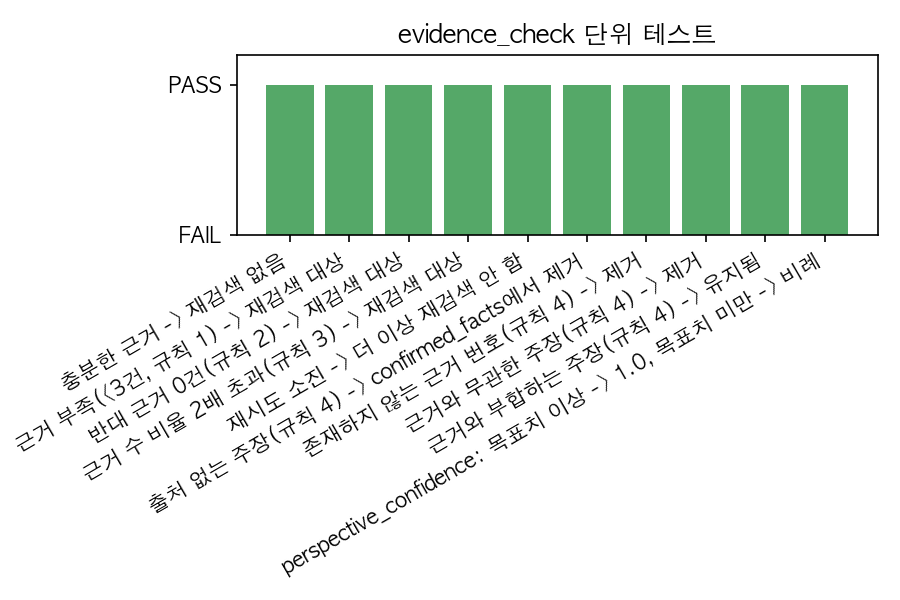
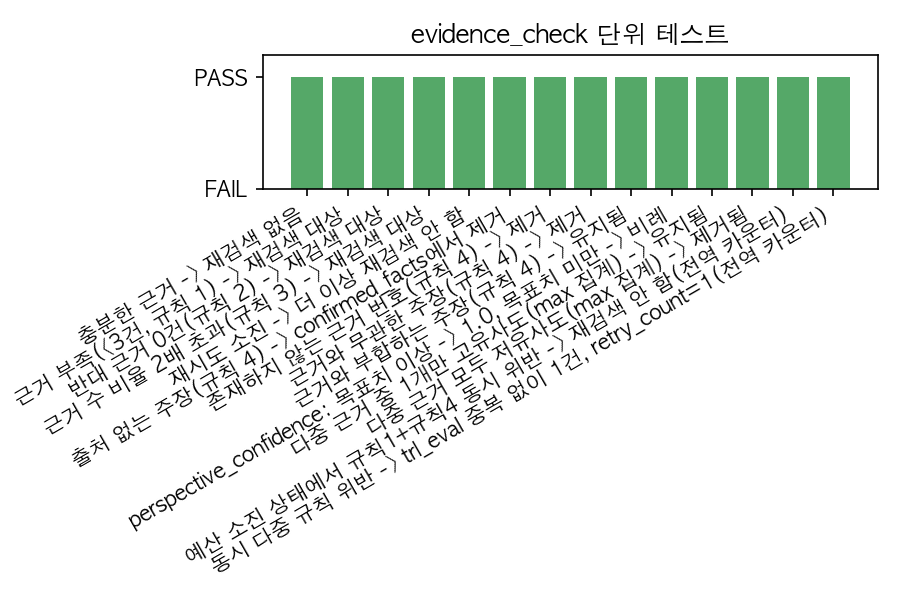
test: evidence_check 유사도 집계(max)·재검색 전역 카운터 검증 테스트 추가
기존 로직을 확인한 결과 둘 다 이미 의도대로 구현돼 있어 agent.py는 수정하지
않음:
- Claim-Evidence 유사도는 quote를 concat하지 않고 개별 비교 후 max로 집계됨
- retry_count는 규칙별이 아니라 evidence_check 호출 전체에 걸친 전역 카운터임

검증용 유닛테스트 4개 추가(11~14): 다중 근거 중 일부만 고유사도인 경우
유지/전부 저유사도인 경우 제거, 예산 소진 시 규칙1+4 동시 위반해도 재검색 안
함, 예산이 남은 상태에서 다중 규칙이 동시에 걸려도 trl_eval 중복 없이 1건·
retry_count 1로만 증가. 14/14 통과.

diff --git a/scripts/evidence_check/test_runner.py b/scripts/evidence_check/test_runner.py
@@ -5,6 +5,10 @@
 계산을 검증함. bge-m3 로컬 임베딩만 쓰고 API 키는 필요 없지만, 최초 1회 모델
 다운로드(로컬 캐시)가 필요함.
 
+테스트 11~12는 evidence_ids가 여러 개인 Claim의 유사도 집계 방식(개별 quote와
+비교한 값 중 max)을 검증함. 테스트 13~14는 재검색 카운터(retry_count)가
+규칙별이 아니라 evidence_check 호출 전체에 걸친 전역 값임을 검증함.
+
 실행: python -m scripts.evidence_check.test_runner
 """
 
@@ -138,6 +142,87 @@ def run_checks() -> list[UnitCheck]:
         "perspective_confidence: 목표치 이상 -> 1.0, 목표치 미만 -> 비례",
         conf["A"] == 1.0 and conf["B"] == 0.4,
         f"A={conf['A']}, B={conf['B']}",
+    ))
+
+    # --- 유사도 집계 방식(max) 검증: evidence_ids가 2개 이상인 Claim ---
+    irrelevant_a = Evidence(
+        id=2, tech="A", perspective="trl", stance="지지", source_type="논문",
+        source="s", quote="오늘 점심 메뉴는 김치찌개였다.",
+    )
+    irrelevant_b = Evidence(
+        id=3, tech="A", perspective="trl", stance="지지", source_type="논문",
+        source="s", quote="제주도 여행 첫날에는 성산일출봉에 갔다.",
+    )
+
+    # 11. 인용 근거 2개 중 하나만 유사도 높음 -> max 집계라 통과(유지)해야 함
+    view = ViewResult(by_tech={"A": TechViewResult(
+        confirmed_facts=[Claim(
+            statement="TurboQuant는 3.5비트에서 품질 저하가 없다고 보고됨",
+            evidence_ids=[1, 2],  # 1=grounded_evidence(관련 높음), 2=무관
+        )],
+    )})
+    result = agent.run({
+        "techs": TECHS, "evidence": [grounded_evidence, irrelevant_a],
+        "retry_count": 0, "trl_result": view,
+    })
+    checks.append(UnitCheck(
+        "다중 근거 중 1개만 고유사도(max 집계) -> 유지됨",
+        len(result["trl_result"].by_tech["A"].confirmed_facts) == 1,
+    ))
+
+    # 12. 인용 근거 2개 다 유사도 낮음 -> 제거돼야 함
+    view = ViewResult(by_tech={"A": TechViewResult(
+        confirmed_facts=[Claim(
+            statement="TurboQuant는 3.5비트에서 품질 저하가 없다고 보고됨",
+            evidence_ids=[2, 3],  # 둘 다 무관
+        )],
+    )})
+    result = agent.run({
+        "techs": TECHS, "evidence": [irrelevant_a, irrelevant_b],
+        "retry_count": 0, "trl_result": view,
+    })
+    checks.append(UnitCheck(
+        "다중 근거 모두 저유사도(max 집계) -> 제거됨",
+        result["trl_result"].by_tech["A"].confirmed_facts == [],
+    ))
+
+    # --- 재검색 카운터가 규칙별이 아니라 evidence_check 호출 전역임을 검증 ---
+
+    # 13. 예산 소진(retry_count=1) 상태에서 규칙1과 규칙4가 동시에 걸려도
+    #     재검색 대상에 추가되지 않음 -> 규칙4가 별도 예산을 갖지 않음(전역 공유) 증명
+    evidence = _evidence("A", "trl", "지지", 1, 1)  # 규칙1 위반(<3건)
+    view = ViewResult(by_tech={"A": TechViewResult(
+        confirmed_facts=[Claim(statement="근거 없이 쓴 주장", evidence_ids=[])],  # 규칙4 위반
+    )})
+    result = agent.run({
+        "techs": TECHS, "evidence": evidence, "retry_count": 1, "trl_result": view,
+    })
+    checks.append(UnitCheck(
+        "예산 소진 상태에서 규칙1+규칙4 동시 위반 -> 재검색 안 함(전역 카운터)",
+        result["retry_targets"] == [] and result["retry_count"] == 1,
+    ))
+
+    # 14. 예산이 남은 상태(retry_count=0)에서 규칙1(A)과 규칙4(A)가 동시에 걸려도
+    #     같은 관점(trl_eval)은 중복 없이 1건만 추가되고, retry_count는 1로만 증가함
+    grounded_b = Evidence(
+        id=200, tech="B", perspective="trl", stance="지지", source_type="논문",
+        source="s", quote="B tech has abundant support evidence.",
+    )
+    evidence = (
+        _evidence("A", "trl", "지지", 1, 1)  # 규칙1 위반(A: <3건)
+        + [grounded_b] + _evidence("B", "trl", "지지", 2, 201) + _evidence("B", "trl", "반대", 1, 210)
+    )
+    view = ViewResult(by_tech={
+        "A": TechViewResult(confirmed_facts=[Claim(statement="근거 없이 쓴 주장", evidence_ids=[])]),  # 규칙4 위반
+        "B": TechViewResult(confirmed_facts=[Claim(
+            statement="B tech has abundant support evidence.", evidence_ids=[200],
+        )]),  # 그라운딩 통과
+    })
+    result = agent.run({"techs": TECHS, "evidence": evidence, "retry_count": 0, "trl_result": view})
+    checks.append(UnitCheck(
+        "동시 다중 규칙 위반 -> trl_eval 중복 없이 1건, retry_count=1(전역 카운터)",
+        result["retry_targets"].count("trl_eval") == 1 and result["retry_count"] == 1,
+        f"retry_targets={result['retry_targets']}, retry_count={result['retry_count']}",
     ))
 
     return checks

diff --git a/scripts/evidence_check/evidence_check_report.md b/scripts/evidence_check/evidence_check_report.md
@@ -15,6 +15,10 @@
 | 근거와 무관한 주장(규칙 4) -> 제거 | PASS |  |
 | 근거와 부합하는 주장(규칙 4) -> 유지됨 | PASS |  |
 | perspective_confidence: 목표치 이상 -> 1.0, 목표치 미만 -> 비례 | PASS | A=1.0, B=0.4 |
+| 다중 근거 중 1개만 고유사도(max 집계) -> 유지됨 | PASS |  |
+| 다중 근거 모두 저유사도(max 집계) -> 제거됨 | PASS |  |
+| 예산 소진 상태에서 규칙1+규칙4 동시 위반 -> 재검색 안 함(전역 카운터) | PASS |  |
+| 동시 다중 규칙 위반 -> trl_eval 중복 없이 1건, retry_count=1(전역 카운터) | PASS | retry_targets=['trl_eval', 'market_eval', 'stakeholder_eval', 'domain_eval'], retry_count=1 |
 
 ![단위 테스트 결과](report_assets/unit_checks.png)
 
